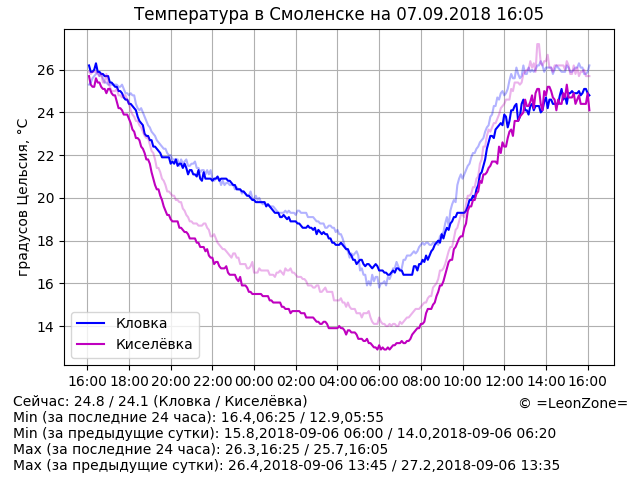
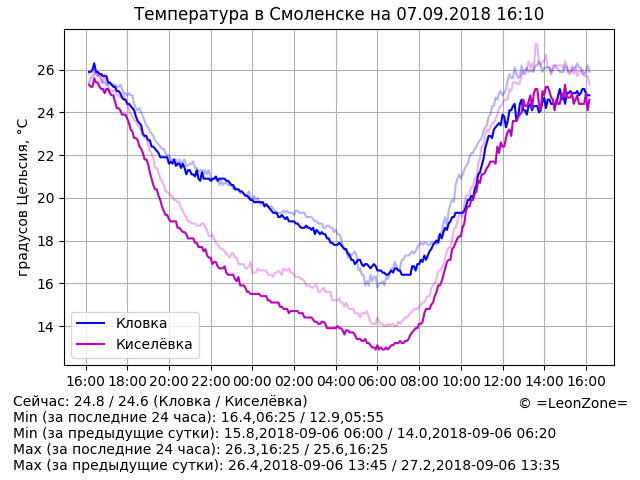
Update data

diff --git a/index.html b/index.html
@@ -14,10 +14,10 @@
 	<p align="center"><script>document.write("<img src=\"graph.png?rnd="+Math.random()+"\" alt=\"Температура в Смоленске\" align=\"middle\" width=\"640\" height=\"480\" />")</script>
 	<p hidden="true">
 <!-- textinfo -->
-Сейчас: 24.8 / 24.1 (Кловка / Киселёвка)
+Сейчас: 24.8 / 24.6 (Кловка / Киселёвка)
 Min (за последние 24 часа): 16.4,06:25 / 12.9,05:55
 Min (за предыдущие сутки): 15.8,2018-09-06 06:00 / 14.0,2018-09-06 06:20
-Max (за последние 24 часа): 26.3,16:25 / 25.7,16:05
+Max (за последние 24 часа): 26.3,16:25 / 25.6,16:25
 Max (за предыдущие сутки): 26.4,2018-09-06 13:45 / 27.2,2018-09-06 13:35
 <!-- /textinfo -->
 	<footer hidden="true">© =LeonZone=</footer>
